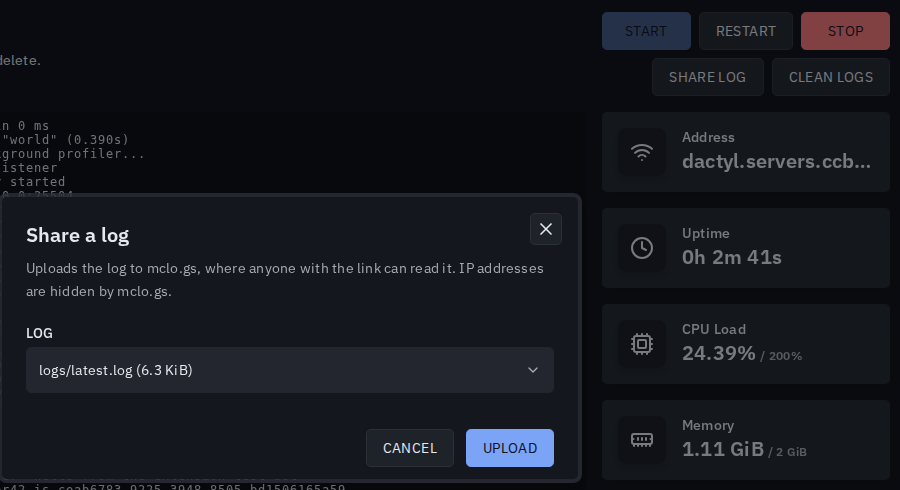
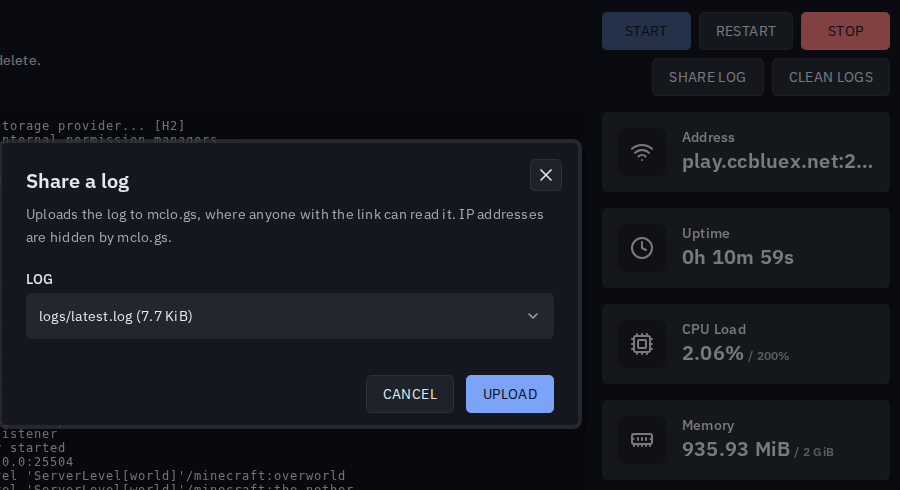
docs: move to ccbluex and hide node hostnames

diff --git a/README.md b/README.md
@@ -1,9 +1,9 @@
 # Minecraft for Pterodactyl
 
-[![Release](https://img.shields.io/github/v/release/1zun4/Pterodactyl-Extension-Minecraft?style=flat-square)](https://github.com/1zun4/Pterodactyl-Extension-Minecraft/releases/latest)
-[![Downloads](https://img.shields.io/github/downloads/1zun4/Pterodactyl-Extension-Minecraft/total?style=flat-square)](https://github.com/1zun4/Pterodactyl-Extension-Minecraft/releases)
+[![Release](https://img.shields.io/github/v/release/CCBlueX/Pterodactyl-Extension-Minecraft?style=flat-square)](https://github.com/CCBlueX/Pterodactyl-Extension-Minecraft/releases/latest)
+[![Downloads](https://img.shields.io/github/downloads/CCBlueX/Pterodactyl-Extension-Minecraft/total?style=flat-square)](https://github.com/CCBlueX/Pterodactyl-Extension-Minecraft/releases)
 [![Pterodactyl](https://img.shields.io/badge/Pterodactyl-2.0-0e4688?style=flat-square)](https://pterodactyl.io)
-[![License](https://img.shields.io/github/license/1zun4/Pterodactyl-Extension-Minecraft?style=flat-square)](LICENSE)
+[![License](https://img.shields.io/github/license/CCBlueX/Pterodactyl-Extension-Minecraft?style=flat-square)](LICENSE)
 
 Players, server.properties and logs of your Minecraft servers, right in the panel.
 
@@ -11,7 +11,7 @@ Players, server.properties and logs of your Minecraft servers, right in the pane
 
 ## Install
 
-1. Download `minecraft-<version>.pteroext` from the [latest release](https://github.com/1zun4/Pterodactyl-Extension-Minecraft/releases/latest).
+1. Download `minecraft-<version>.pteroext` from the [latest release](https://github.com/CCBlueX/Pterodactyl-Extension-Minecraft/releases/latest).
 2. Open **Admin → Extensions**, click **Install** and pick the file.
 3. Enable it and reload the panel.
 
